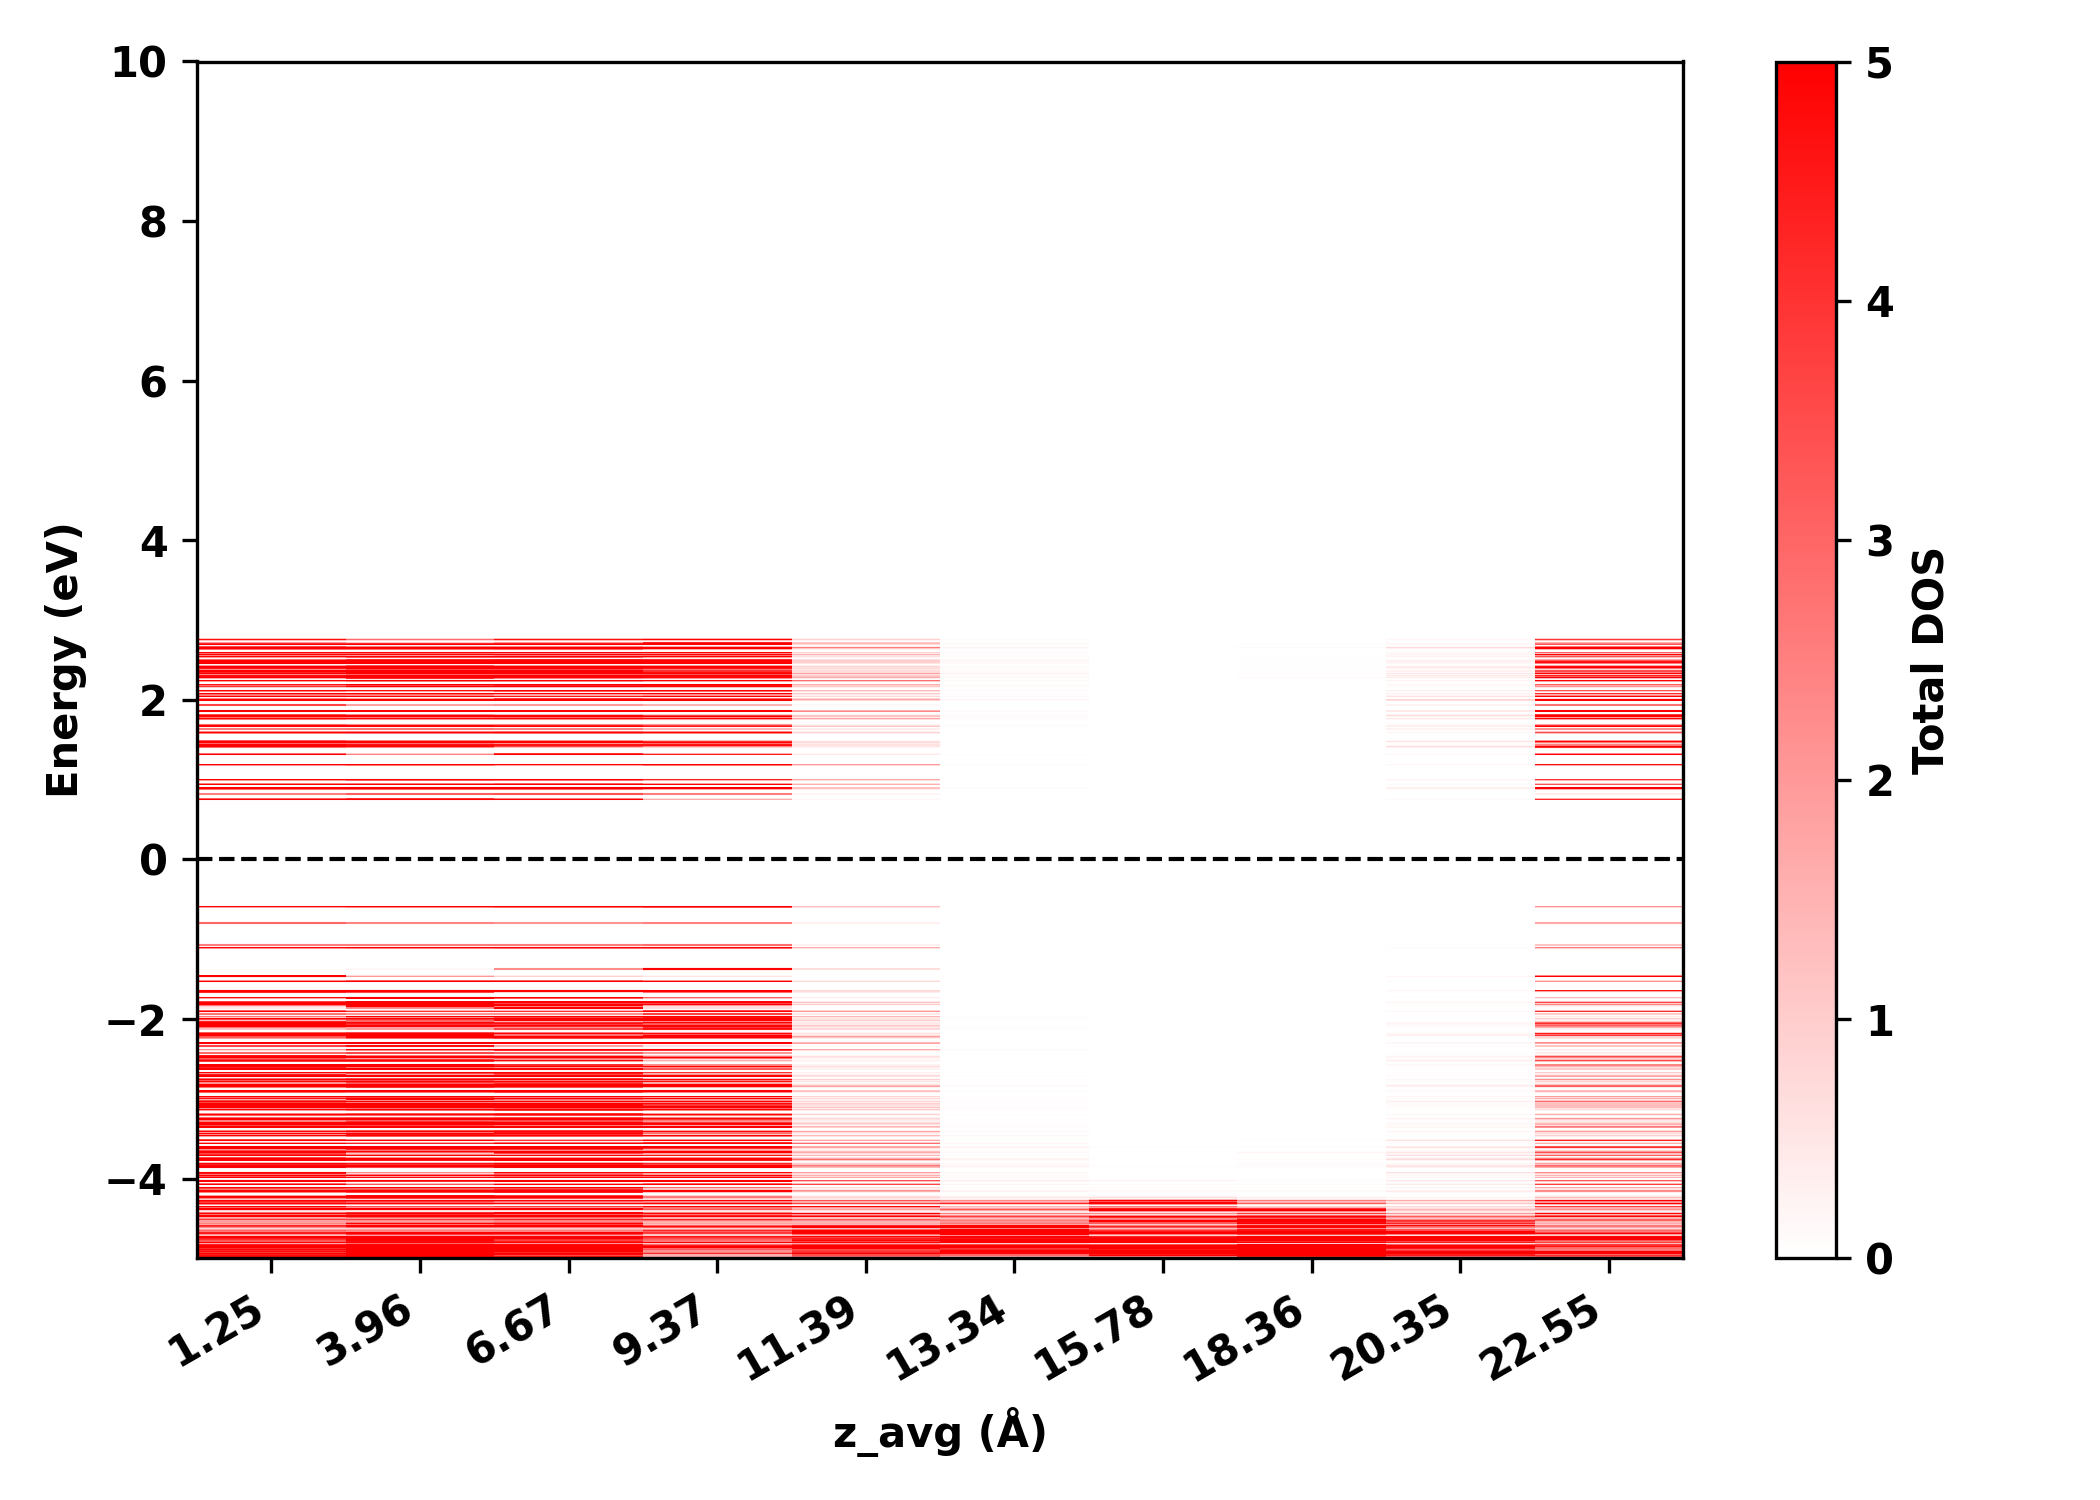
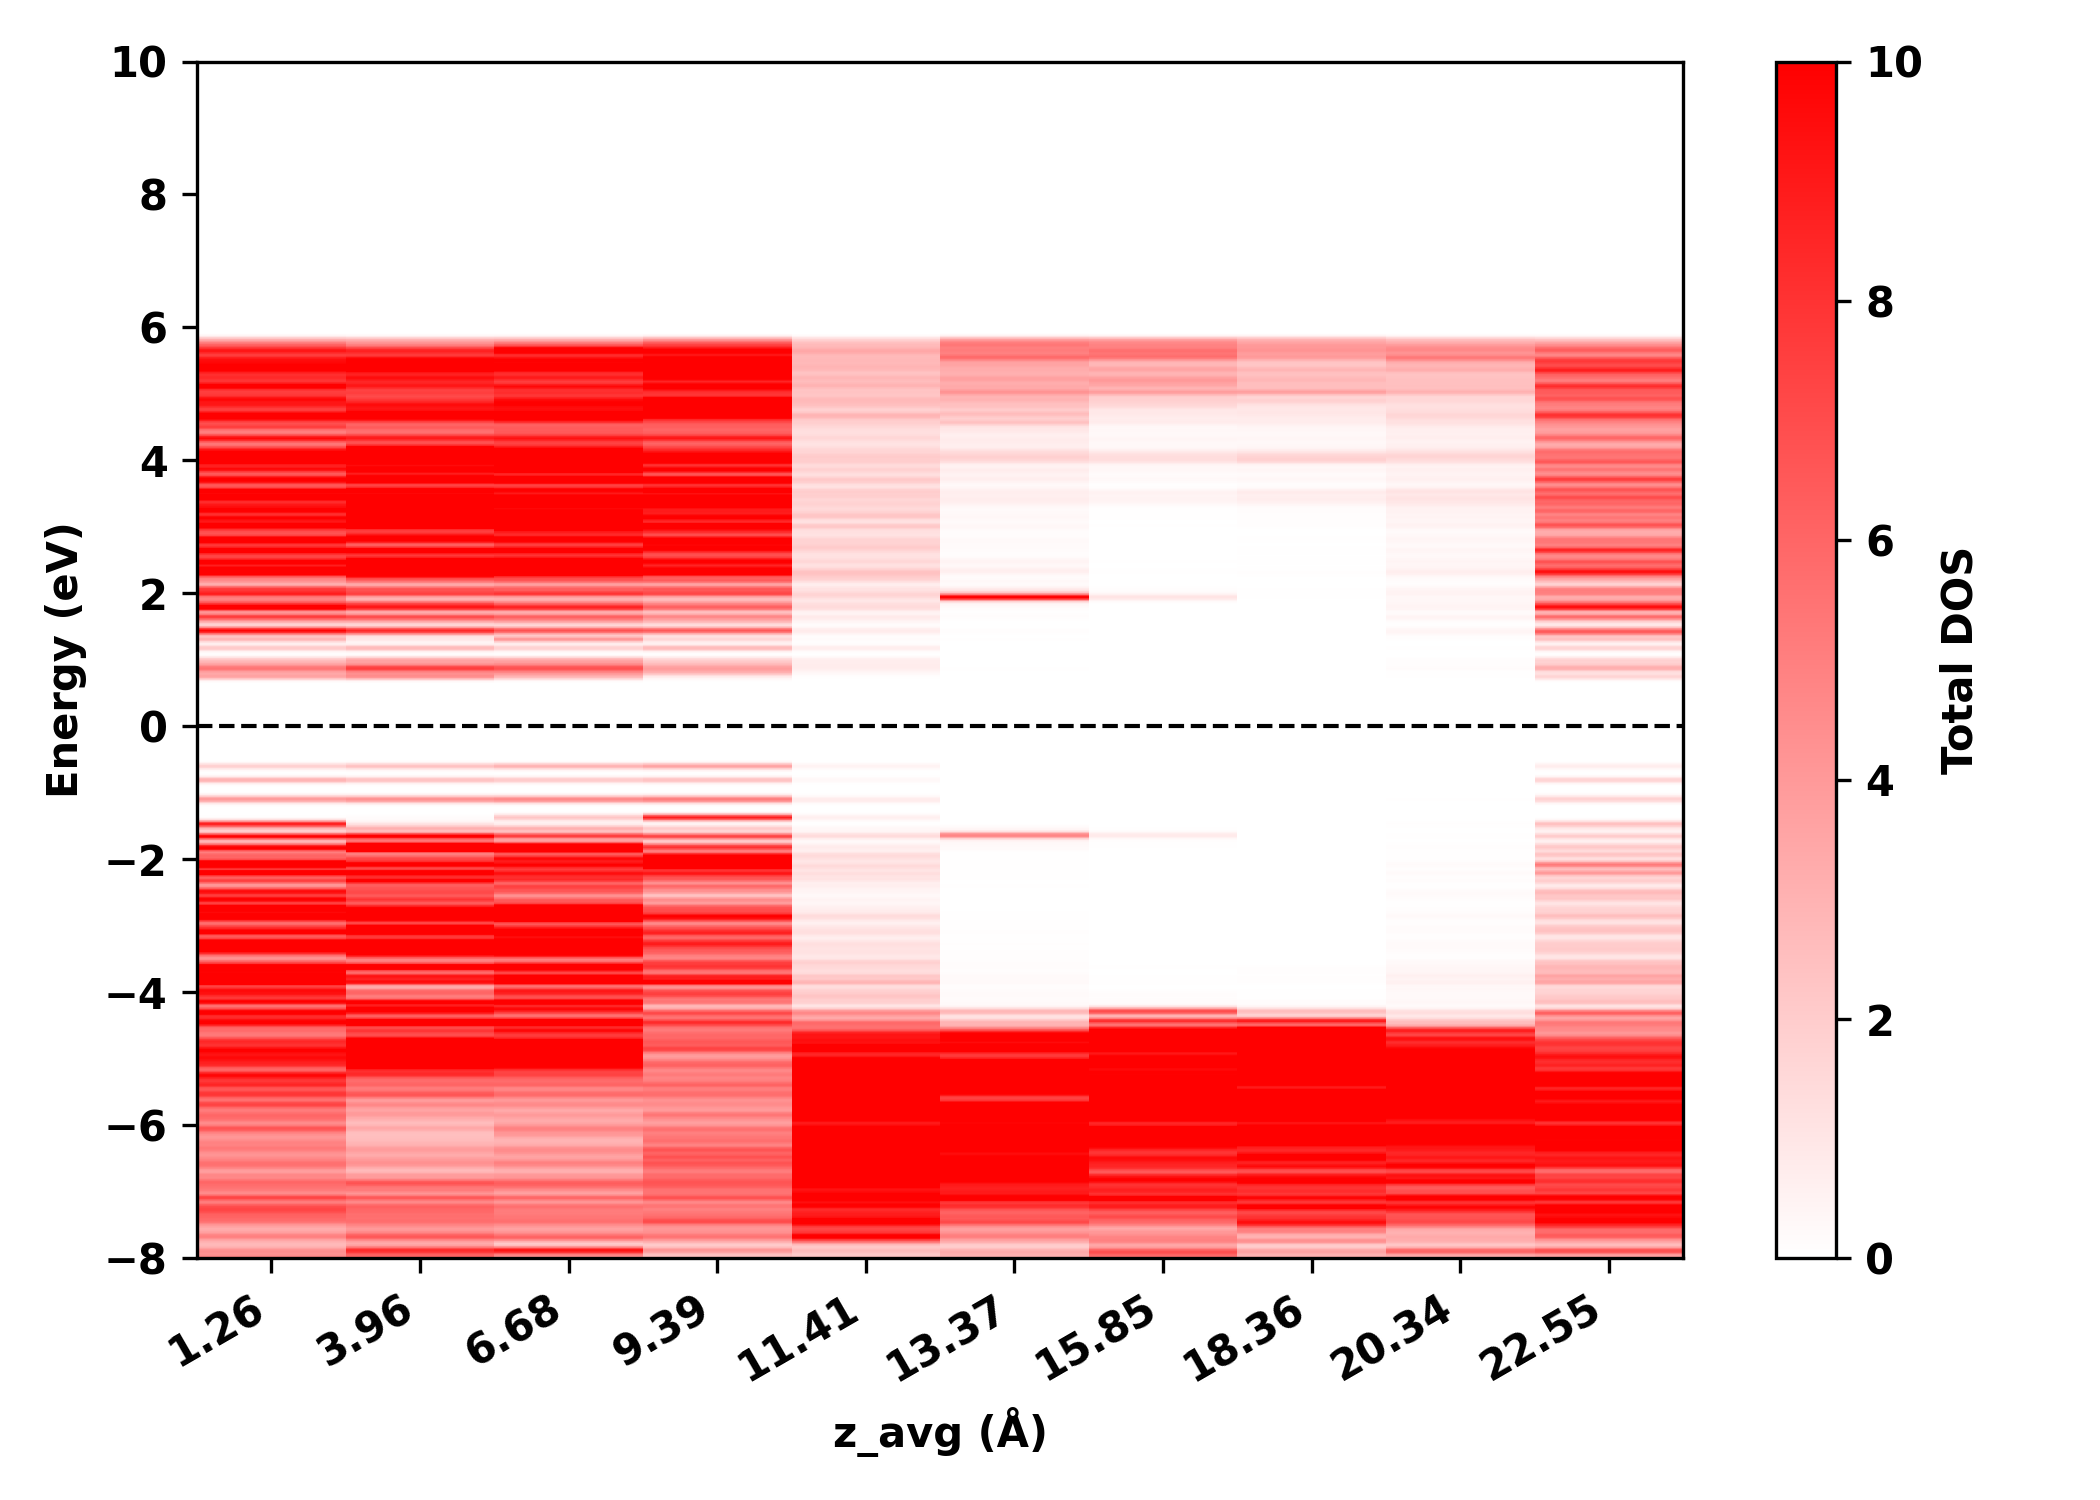
修复一些问题

diff --git a/python_script/section_pdos.py b/python_script/section_pdos.py
@@ -16,7 +16,10 @@ def add_tag_column(input_path, output_path):
             in_atom_section = False
 
         if in_atom_section and header_marker not in stripped:
-            out_lines.append(line.rstrip("\n") + "  1\n")
+            if len(line.rstrip("\n").split()) >= 8:
+                out_lines.append(line.rstrip("\n").rsplit(None, 1)[0] + "  1\n")
+            else:
+                out_lines.append(line.rstrip("\n") + "  1\n")
         else:
             out_lines.append(line)
 